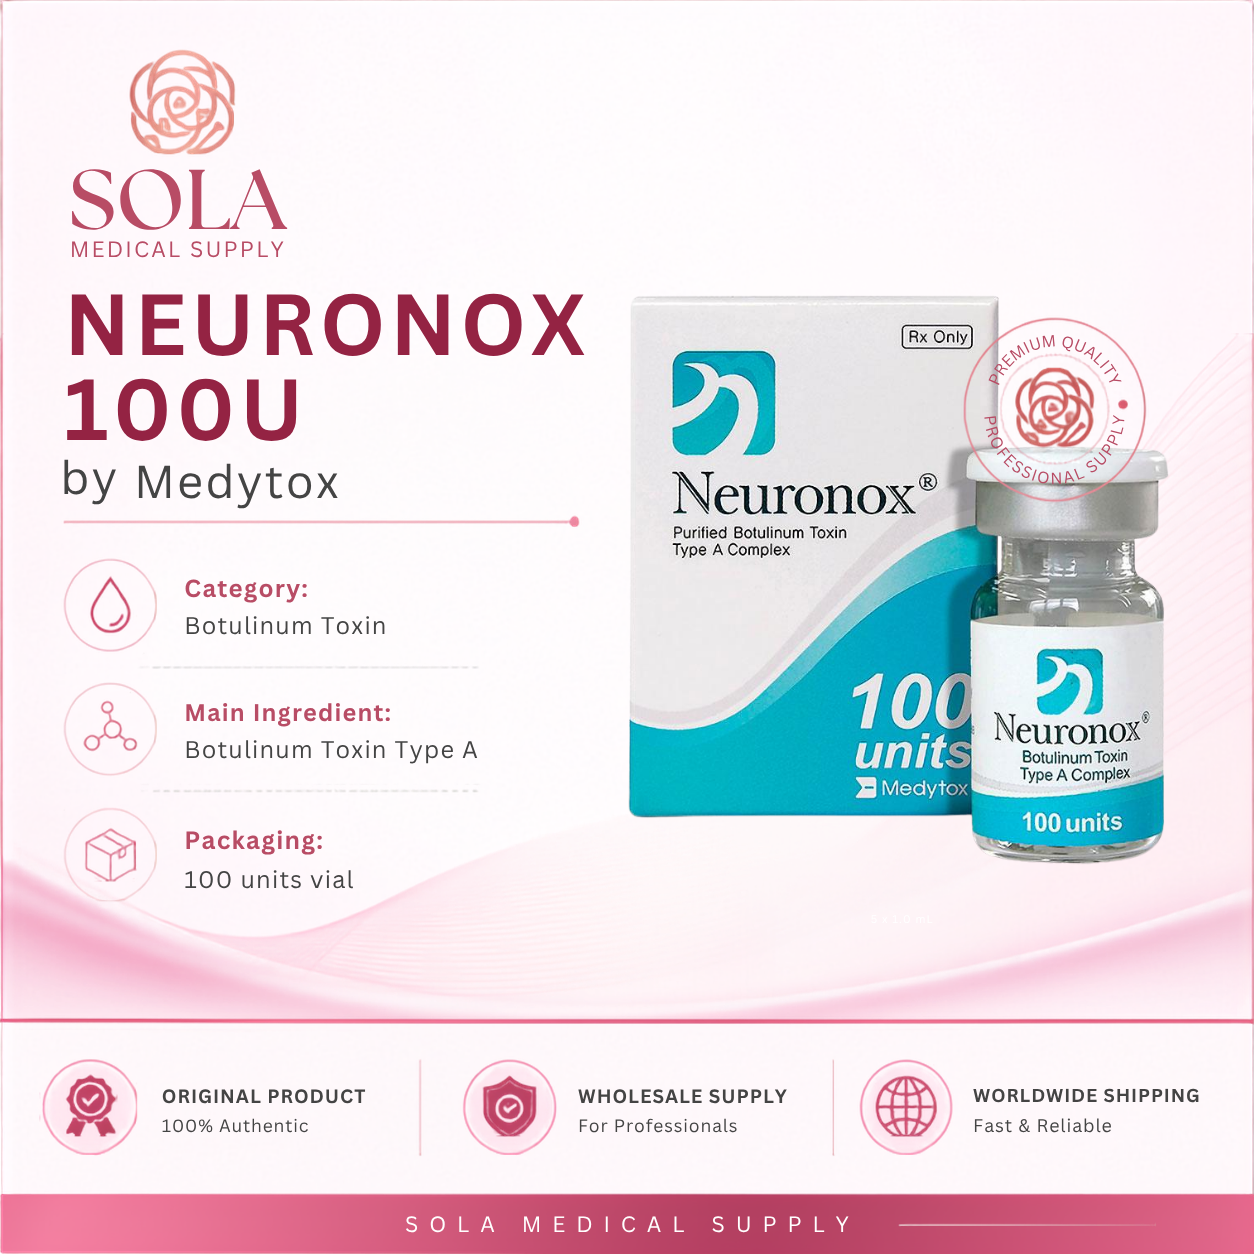
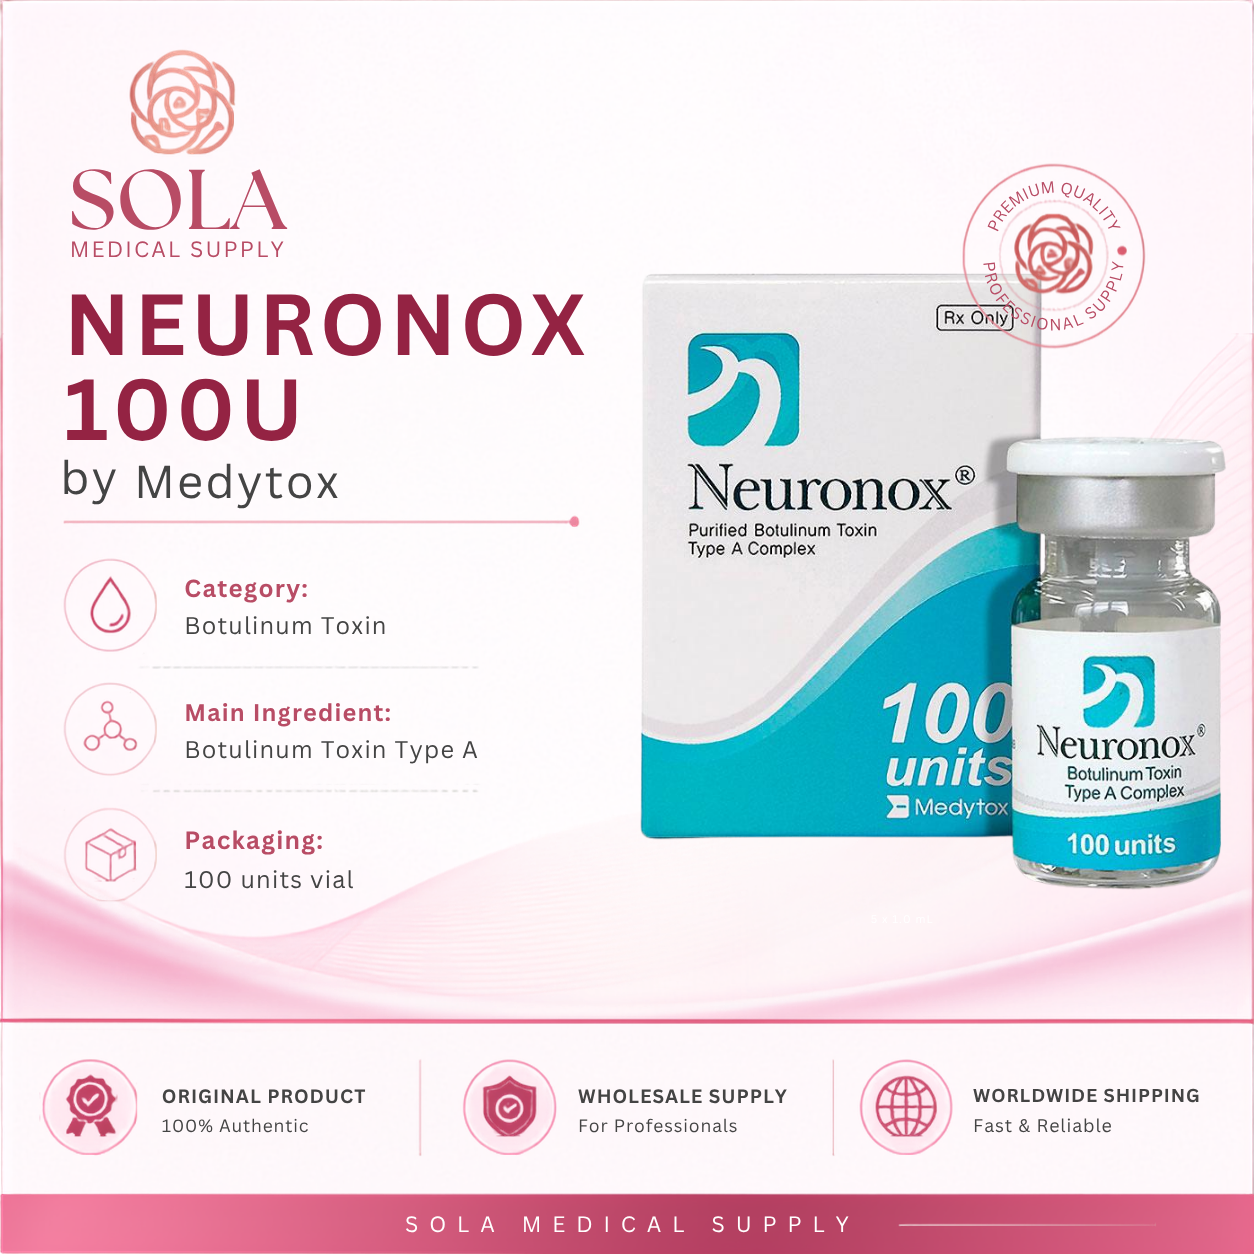
Separate home best sellers and all products

Changed region(s): [[0.4976, 0.1244, 0.9952, 0.7153]]

diff --git a/assets/data/products.js b/assets/data/products.js
@@ -1,34 +1,208 @@
 window.SOLA_PRODUCTS = [
-  { name: 'Aqualyx', category: 'Lipolysis / Body', brand: 'Aqualyx', origin: 'Korea', tag: 'Fat Dissolving', image: 'assets/images/bestSeller/aqualyx.png',featured:true },
-  { name: 'Botulax 100 Unit', category: 'Toxin', brand: 'Botulax', origin: 'Korea', tag: 'Toxin', image: 'assets/images/bestSeller/botulax100unit.png',featured:true },
-  { name: 'Botulax 200U', category: 'Toxin', brand: 'Botulax', origin: 'Korea', tag: 'Toxin', image: 'assets/images/bestSeller/botulax200u.png',featured:true },
-  { name: 'Hyaron', category: 'Skin Boosters / PN', brand: 'Hyaron', origin: 'Korea', tag: 'Skin Booster', image: 'assets/images/bestSeller/hyaron.png',featured:true },
-  { name: 'Juvederm Ultra 3', category: 'Dermal Fillers', brand: 'Juvederm', origin: 'France', tag: 'Filler', image: 'assets/images/bestSeller/juvederm3.png',featured:true },
-  { name: 'Juvederm Voluma', category: 'Dermal Fillers', brand: 'Juvederm', origin: 'France', tag: 'Filler', image: 'assets/images/bestSeller/juvedermVoluma.png',featured:true },
-  { name: 'Juvederm XC Plus', category: 'Dermal Fillers', brand: 'Juvederm', origin: 'France', tag: 'Filler', image: 'assets/images/bestSeller/juvedermXcPlus.png',featured:true },
-  { name: 'Karisma', category: 'Skin Boosters / PN', brand: 'Karisma', origin: 'Italy', tag: 'Biostimulator', image: 'assets/images/bestSeller/karisma.png',featured:true },
-  { name: 'Lemon Bottle', category: 'Lipolysis / Body', brand: 'Lemon Bottle', origin: 'Korea', tag: 'Fat Dissolving', image: 'assets/images/bestSeller/lemonBottle.png',featured:true },
-  { name: 'Luhilo', category: 'Skin Boosters / PN', brand: 'Luhilo', origin: 'Korea', tag: 'Skin Booster', image: 'assets/images/bestSeller/luhilo.png',featured:true },
-  { name: 'Meditoxin 100', category: 'Toxin', brand: 'Meditoxin', origin: 'Korea', tag: 'Toxin', image: 'assets/images/bestSeller/meditoxin100.png',featured:true },
-  { name: 'Mounjaro 2.5mg', category: 'Weight Management', brand: 'Mounjaro', origin: 'Japan', tag: 'Weight Management', image: 'assets/images/bestSeller/moujaro2.5mg.png',featured:true }, 
-  { name: 'Mounjaro 5mg', category: 'Weight Management', brand: 'Mounjaro', origin: 'Japan', tag: 'Weight Management', image: 'assets/images/bestSeller/moujaro5mg.png',featured:true },
-  { name: 'Mounjaro 7.5mg', category: 'Weight Management', brand: 'Mounjaro', origin: 'Japan', tag: 'Weight Management', image: 'assets/images/bestSeller/moujaro7.5mg.png',featured:true },
-  { name: 'Mounjaro 10mg', category: 'Weight Management', brand: 'Mounjaro', origin: 'Japan', tag: 'Weight Management', image: 'assets/images/bestSeller/moujaro10mg.png',featured:true },
-  { name: 'NCTF', category: 'Skin Boosters / PN', brand: 'NCTF', origin: 'France', tag: 'Skin Booster', image: 'assets/images/bestSeller/nctf.png',featured:true },
-  { name: 'Profhilo', category: 'Skin Boosters / PN', brand: 'Profhilo', origin: 'Italy', tag: 'Skin Booster', image: 'assets/images/bestSeller/profhilo.png',featured:true },
-  { name: 'Profhilo Structura', category: 'Skin Boosters / PN', brand: 'Profhilo', origin: 'Italy', tag: 'Skin Booster', image: 'assets/images/bestSeller/profhiloStructura.png',featured:true },
-  { name: 'Rejeunesse', category: 'Dermal Fillers', brand: 'Rejeunesse', origin: 'Korea', tag: 'Filler', image: 'assets/images/bestSeller/rejeunesse.png',featured:true },
-  { name: 'Rejuran HB', category: 'Skin Boosters / PN', brand: 'Rejuran', origin: 'Korea', tag: 'PN', image: 'assets/images/bestSeller/rejuranHB.png',featured:true },
-  { name: 'Rejuran Healer', category: 'Skin Boosters / PN', brand: 'Rejuran', origin: 'Korea', tag: 'Best Seller', image: 'assets/images/bestSeller/rejuranHealer.png',featured:true },
-  { name: 'Rejuran I', category: 'Skin Boosters / PN', brand: 'Rejuran', origin: 'Korea', tag: 'PN', image: 'assets/images/bestSeller/rejuranI.png',featured:true },
-  { name: 'Rejuran S', category: 'Skin Boosters / PN', brand: 'Rejuran', origin: 'Korea', tag: 'PN', image: 'assets/images/bestSeller/rejuranS.png',featured:true },
-  { name: 'Rentox 200', category: 'Toxin', brand: 'Rentox', origin: 'Korea', tag: 'Toxin', image: 'assets/images/bestSeller/rentox200.png',featured:true },
-  { name: 'Restylane Kysse', category: 'Dermal Fillers', brand: 'Restylane', origin: 'Sweden', tag: 'Filler', image: 'assets/images/bestSeller/restylaneKysse.png',featured:true },
-  { name: 'Restylane Defyne', category: 'Dermal Fillers', brand: 'Restylane', origin: 'Sweden', tag: 'Filler', image: 'assets/images/bestSeller/restylanedefine.png',featured:true },
-  { name: 'Sculptra', category: 'Biostimulator', brand: 'Sculptra', origin: 'France', tag: 'Collagen Stimulator', image: 'assets/images/bestSeller/Sculptra.png',featured:true },
-  { name: 'Sedy Fill', category: 'Body Filler', brand: 'Sedy Fill', origin: 'Korea', tag: 'Body Filler', image: 'assets/images/bestSeller/sedyFill.png',featured:true },
-  { name: 'Teoxane Redensity II', category: 'Dermal Fillers', brand: 'Teoxane', origin: 'Switzerland', tag: 'Filler', image: 'assets/images/bestSeller/teoxaneRedensity2.png'},
+  { name: 'Aqualyx', category: 'Lipolysis / Body', brand: 'Aqualyx', origin: 'Korea', tag: 'Fat Dissolving', image: 'assets/images/bestSeller/aqualyx.png', featured: true },
+  { name: 'Botulax 100 Unit', category: 'Toxin', brand: 'Botulax', origin: 'Korea', tag: 'Toxin', image: 'assets/images/bestSeller/botulax100unit.png', featured: true },
+  { name: 'Botulax 200U', category: 'Toxin', brand: 'Botulax', origin: 'Korea', tag: 'Toxin', image: 'assets/images/bestSeller/botulax200u.png', featured: true },
+  { name: 'Hyaron', category: 'Skin Boosters / PN', brand: 'Hyaron', origin: 'Korea', tag: 'Skin Booster', image: 'assets/images/bestSeller/hyaron.png', featured: true },
+  { name: 'Juvederm Ultra 3', category: 'Dermal Fillers', brand: 'Juvederm', origin: 'France', tag: 'Filler', image: 'assets/images/bestSeller/juvederm3.png', featured: true },
+  { name: 'Juvederm Voluma', category: 'Dermal Fillers', brand: 'Juvederm', origin: 'France', tag: 'Filler', image: 'assets/images/bestSeller/juvedermVoluma.png', featured: true },
+  { name: 'Juvederm XC Plus', category: 'Dermal Fillers', brand: 'Juvederm', origin: 'France', tag: 'Filler', image: 'assets/images/bestSeller/juvedermXcPlus.png', featured: true },
+  { name: 'Karisma', category: 'Skin Boosters / PN', brand: 'Karisma', origin: 'Italy', tag: 'Biostimulator', image: 'assets/images/bestSeller/karisma.png', featured: true },
+  { name: 'Lemon Bottle', category: 'Lipolysis / Body', brand: 'Lemon Bottle', origin: 'Korea', tag: 'Fat Dissolving', image: 'assets/images/bestSeller/lemonBottle.png', featured: true },
+  { name: 'Luhilo', category: 'Skin Boosters / PN', brand: 'Luhilo', origin: 'Korea', tag: 'Skin Booster', image: 'assets/images/bestSeller/luhilo.png', featured: true },
+  { name: 'Meditoxin 100', category: 'Toxin', brand: 'Meditoxin', origin: 'Korea', tag: 'Toxin', image: 'assets/images/bestSeller/meditoxin100.png', featured: true },
+  { name: 'Mounjaro 2.5mg', category: 'Weight Management', brand: 'Mounjaro', origin: 'Japan', tag: 'Weight Management', image: 'assets/images/bestSeller/moujaro2.5mg.png', featured: true },
+  { name: 'Mounjaro 5mg', category: 'Weight Management', brand: 'Mounjaro', origin: 'Japan', tag: 'Weight Management', image: 'assets/images/bestSeller/moujaro5mg.png', featured: true },
+  { name: 'Mounjaro 7.5mg', category: 'Weight Management', brand: 'Mounjaro', origin: 'Japan', tag: 'Weight Management', image: 'assets/images/bestSeller/moujaro7.5mg.png', featured: true },
+  { name: 'Mounjaro 10mg', category: 'Weight Management', brand: 'Mounjaro', origin: 'Japan', tag: 'Weight Management', image: 'assets/images/bestSeller/moujaro10mg.png', featured: true },
+  { name: 'NCTF', category: 'Skin Boosters / PN', brand: 'NCTF', origin: 'France', tag: 'Skin Booster', image: 'assets/images/bestSeller/nctf.png', featured: true },
+  { name: 'Profhilo', category: 'Skin Boosters / PN', brand: 'Profhilo', origin: 'Italy', tag: 'Skin Booster', image: 'assets/images/bestSeller/profhilo.png', featured: true },
+  { name: 'Profhilo Structura', category: 'Skin Boosters / PN', brand: 'Profhilo', origin: 'Italy', tag: 'Skin Booster', image: 'assets/images/bestSeller/profhiloStructura.png', featured: true },
+  { name: 'Rejeunesse', category: 'Dermal Fillers', brand: 'Rejeunesse', origin: 'Korea', tag: 'Filler', image: 'assets/images/bestSeller/rejeunesse.png', featured: true },
+  { name: 'Rejuran HB', category: 'Skin Boosters / PN', brand: 'Rejuran', origin: 'Korea', tag: 'PN', image: 'assets/images/bestSeller/rejuranHB.png', featured: true },
+  { name: 'Rejuran Healer', category: 'Skin Boosters / PN', brand: 'Rejuran', origin: 'Korea', tag: 'Best Seller', image: 'assets/images/bestSeller/rejuranHealer.png', featured: true },
+  { name: 'Rejuran I', category: 'Skin Boosters / PN', brand: 'Rejuran', origin: 'Korea', tag: 'PN', image: 'assets/images/bestSeller/rejuranI.png', featured: true },
+  { name: 'Rejuran S', category: 'Skin Boosters / PN', brand: 'Rejuran', origin: 'Korea', tag: 'PN', image: 'assets/images/bestSeller/rejuranS.png', featured: true },
+  { name: 'Rentox 200', category: 'Toxin', brand: 'Rentox', origin: 'Korea', tag: 'Toxin', image: 'assets/images/bestSeller/rentox200.png', featured: true },
+  { name: 'Restylane Kysse', category: 'Dermal Fillers', brand: 'Restylane', origin: 'Sweden', tag: 'Filler', image: 'assets/images/bestSeller/restylaneKysse.png', featured: true },
+  { name: 'Restylane Defyne', category: 'Dermal Fillers', brand: 'Restylane', origin: 'Sweden', tag: 'Filler', image: 'assets/images/bestSeller/restylanedefine.png', featured: true },
+  { name: 'Sculptra', category: 'Biostimulator', brand: 'Sculptra', origin: 'France', tag: 'Collagen Stimulator', image: 'assets/images/bestSeller/Sculptra.png', featured: true },
+  { name: 'Sedy Fill', category: 'Body Filler', brand: 'Sedy Fill', origin: 'Korea', tag: 'Body Filler', image: 'assets/images/bestSeller/sedyFill.png', featured: true },
+  { name: 'Teoxane Redensity II', category: 'Dermal Fillers', brand: 'Teoxane', origin: 'Switzerland', tag: 'Filler', image: 'assets/images/bestSeller/teoxaneRedensity2.png' },
 
-  
+  { name: '32g Meso Needle', category: 'Meso / Needles', brand: 'Meso Needle', origin: '', tag: 'Meso Needle', image: 'assets/images/products/32gMesoNeedle.png' },
+  { name: '34G Meso Needle', category: 'Meso / Needles', brand: 'Meso Needle', origin: '', tag: 'Meso Needle', image: 'assets/images/products/34GMesoNeedle.png' },
+  { name: 'Ammi Eyes', category: 'Skin Boosters / PN', brand: 'Ammi', origin: '', tag: 'Eye Booster', image: 'assets/images/products/ammiEyes.png' },
+  { name: 'Arista', category: 'Skin Boosters / PN', brand: 'Arista', origin: '', tag: 'Skin Booster', image: 'assets/images/products/arista.png' },
+  { name: 'B.Braun Omnican 1ml', category: 'Injection Supplies', brand: 'B.Braun', origin: 'Germany', tag: 'Supplies', image: 'assets/images/products/BBraun.png' },
+  { name: 'Bienox 100U', category: 'Toxin', brand: 'Bienox', origin: 'Korea', tag: 'Toxin', image: 'assets/images/products/bienox100U.png' },
+  { name: 'BM Hyrunidase', category: 'Dissolving / Hyaluronidase', brand: 'BM', origin: 'Korea', tag: 'Hyaluronidase', image: 'assets/images/products/bmHyrunidase.png' },
+  { name: 'Celosome VIP', category: 'Dermal Fillers', brand: 'Celosome', origin: 'Korea', tag: 'Filler', image: 'assets/images/products/celosomeVip.png' },
+  { name: 'Ceres', category: 'Skin Boosters / PN', brand: 'Ceres', origin: '', tag: 'Skin Booster', image: 'assets/images/products/ceres.png' },
+  { name: 'Coretox 100U', category: 'Toxin', brand: 'Coretox', origin: 'Korea', tag: 'Toxin', image: 'assets/images/products/coretox100u.png' },
+  { name: 'Chaeum', category: 'Dermal Fillers', brand: 'Chaeum', origin: 'Korea', tag: 'Filler', image: 'assets/images/products/chaeum.png' },
+  { name: 'Chaumcaine', category: 'Numbing Cream', brand: 'Chaumcaine', origin: 'Korea', tag: 'Numbing Cream', image: 'assets/images/products/chaumcain.png' },
+  { name: 'Dehantox', category: 'Toxin', brand: 'Dehantox', origin: 'Korea', tag: 'Toxin', image: 'assets/images/products/dehantox.png' },
+  { name: 'Eve Eyes', category: 'Skin Boosters / PN', brand: 'Eve Eyes', origin: '', tag: 'Eye Booster', image: 'assets/images/products/eveEyes.png' },
 
+  { name: 'Evetox', category: 'Toxin', brand: 'Evetox', origin: 'Korea', tag: 'Toxin', image: 'assets/images/products/evetox.png' },
+  { name: 'Extox 100U', category: 'Toxin', brand: 'Extox', origin: 'Korea', tag: 'Toxin', image: 'assets/images/products/extox100u.png' },
+  { name: 'Hairna', category: 'Hair / Meso', brand: 'Hairna', origin: '', tag: 'Hair Booster', image: 'assets/images/products/hairna.png' },
+  { name: 'Huons Water Numb', category: 'Numbing / Anesthetic', brand: 'Huons', origin: 'Korea', tag: 'Numbing', image: 'assets/images/products/huonsWaterNumb.png' },
+  { name: 'Hyalaze', category: 'Dissolving / Hyaluronidase', brand: 'Hyalaze', origin: 'Korea', tag: 'Hyaluronidase', image: 'assets/images/products/hyazale.png' },
+  { name: 'Jalupro Young Eye', category: 'Skin Boosters / PN', brand: 'Jalupro', origin: 'Italy', tag: 'Eye Booster', image: 'assets/images/products/jalupro.png' },
+  { name: 'J-Cain Numbing Cream 10.56%', category: 'Numbing Cream', brand: 'J-Cain', origin: 'Korea', tag: 'Numbing Cream', image: 'assets/images/products/jCainNumbingCream10.56.png' },
+  { name: 'J-Cain Numbing Cream 15.6%', category: 'Numbing Cream', brand: 'J-Cain', origin: 'Korea', tag: 'Numbing Cream', image: 'assets/images/products/jCainNumbingCream15.6.png' },
+  { name: 'J-Cain Numbing Cream 29.9%', category: 'Numbing Cream', brand: 'J-Cain', origin: 'Korea', tag: 'Numbing Cream', image: 'assets/images/products/jCainNumbingCream29.9.png' },
+  { name: 'J-Cain Numbing Cream 59.9%', category: 'Numbing Cream', brand: 'J-Cain', origin: 'Korea', tag: 'Numbing Cream', image: 'assets/images/products/jCainNumbingCream59.9.png' },
+  { name: 'Jade Cain Cream 10,56%', category: 'Skin Boosters / PN', brand: 'Jdibio', origin: 'Korea', tag: 'Skin Booster', image: 'assets/images/products/jdibio.png' },
+  { name: 'Juvederm Skinvive', category: 'Skin Boosters / PN', brand: 'Juvederm', origin: 'France', tag: 'Skin Booster', image: 'assets/images/products/juvedermSkinvive.png' },
+  { name: 'Juvederm Volbella', category: 'Dermal Fillers', brand: 'Juvederm', origin: 'France', tag: 'Filler', image: 'assets/images/products/juvedermVolbella.png' },
+  { name: 'Juvederm Volift', category: 'Dermal Fillers', brand: 'Juvederm', origin: 'France', tag: 'Filler', image: 'assets/images/products/juvedermVolift.png' },
+
+  { name: 'Juvederm Volux', category: 'Dermal Fillers', brand: 'Juvederm', origin: 'France', tag: 'Filler', image: 'assets/images/products/juvedermVolux.png' },
+  { name: 'Juvederm XC', category: 'Dermal Fillers', brand: 'Juvederm', origin: 'France', tag: 'Filler', image: 'assets/images/products/juvedermXC.png' },
+  { name: 'Juvelook', category: 'Skin Boosters / PN', brand: 'Juvelook', origin: 'Korea', tag: 'Skin Booster', image: 'assets/images/products/juvelook.png' },
+  { name: 'Laennec', category: 'Whitening IV / Wellness', brand: 'Laennec', origin: 'Japan', tag: 'Placenta', image: 'assets/images/products/leannec.png' },
+  { name: 'Linospan', category: 'Dental / Anesthetic', brand: 'Septodont', origin: '', tag: 'Anesthetic', image: 'assets/images/products/linospan.png' },
+  { name: 'Liporase', category: 'Dissolving / Hyaluronidase', brand: 'Liporase', origin: 'Korea', tag: 'Hyaluronidase', image: 'assets/images/products/liporase.png' },
+  { name: 'Liztox 100', category: 'Toxin', brand: 'Liztox', origin: 'Korea', tag: 'Toxin', image: 'assets/images/products/liztox100.png' },
+  { name: 'Lumi Eyes', category: 'Skin Boosters / PN', brand: 'Lumi Eyes', origin: '', tag: 'Eye Booster', image: 'assets/images/products/lumieyes.png' },
+  { name: 'Luna Eyes', category: 'Skin Boosters / PN', brand: 'Luna Eyes', origin: '', tag: 'Eye Booster', image: 'assets/images/products/lunaeyes.png' },
+  { name: 'Malinda', category: 'Skin Boosters / PN', brand: 'Malinda', origin: '', tag: 'Skin Booster', image: 'assets/images/products/malinda.png' },
+  { name: 'Medicain 2%', category: 'Numbing / Anesthetic', brand: 'Medicain', origin: '', tag: 'Anesthetic', image: 'assets/images/products/medicain2.png' },
+  { name: 'Melsmon', category: 'Whitening IV / Wellness', brand: 'Melsmon', origin: 'Japan', tag: 'Placenta', image: 'assets/images/products/melsmon.png' },
+  { name: 'Meso 30g Sungshim', category: 'Meso / Needles', brand: 'Sungshim', origin: 'Korea', tag: 'Meso Needle', image: 'assets/images/products/meso30gSungshim.png' },
+  { name: 'Mi-Cain Pro', category: 'Numbing Cream', brand: 'Mi-Cain', origin: 'Korea', tag: 'Numbing Cream', image: 'assets/images/products/miCainpro.png' },
+
+  { name: 'Neuronox 100U', category: 'Toxin', brand: 'Neuronox', origin: 'Korea', tag: 'Toxin', image: 'assets/images/products/Neuronox100U.png' },
+  { name: 'Olidia', category: 'Biostimulator', brand: 'Olidia', origin: 'Korea', tag: 'Collagen Stimulator', image: 'assets/images/products/olivia.png' },
+  { name: 'Onetox 100', category: 'Toxin', brand: 'Onetox', origin: 'Korea', tag: 'Toxin', image: 'assets/images/products/onetox100.png' },
+  { name: 'Onetox 200', category: 'Toxin', brand: 'Onetox', origin: 'Korea', tag: 'Toxin', image: 'assets/images/products/ontox200.png' },
+  { name: 'Radiesse', category: 'Biostimulator', brand: 'Radiesse', origin: 'Germany', tag: 'Biostimulator', image: 'assets/images/products/radiesse.png' },
+  { name: 'Restylane Lyft', category: 'Dermal Fillers', brand: 'Restylane', origin: 'Sweden', tag: 'Filler', image: 'assets/images/products/restylaneLyft.png' },
+  { name: 'Richesse Eyes', category: 'Skin Boosters / PN', brand: 'Richesse', origin: '', tag: 'Eye Booster', image: 'assets/images/products/richeseeyes.png' },
+  { name: 'Roya', category: 'Skin Boosters / PN', brand: 'Roya', origin: '', tag: 'Skin Booster', image: 'assets/images/products/roya.png' },
+  { name: 'RRS HA Eyes', category: 'Skin Boosters / PN', brand: 'RRS', origin: '', tag: 'Eye Booster', image: 'assets/images/products/rrshaeyes.png' },
+  { name: 'Rubytoxin 100U', category: 'Toxin', brand: 'Rubytoxin', origin: 'Korea', tag: 'Toxin', image: 'assets/images/products/rubytoxin100u.png' },
+  { name: 'Sculptra 5ml', category: 'Biostimulator', brand: 'Sculptra', origin: 'France', tag: 'Collagen Stimulator', image: 'assets/images/products/Sculptra5ml.png' },
+  { name: 'Samsung Pharm Whitening', category: 'Whitening IV / Wellness', brand: 'Samsung Pharm', origin: 'Korea', tag: 'Whitening', image: 'assets/images/products/sumsungPharmWhitening.png' },
+  { name: 'Teoxane', category: 'Dermal Fillers', brand: 'Teoxane', origin: 'Switzerland', tag: 'Filler', image: 'assets/images/products/teoxane.png' },
+  { name: 'Toxta 100', category: 'Toxin', brand: 'Toxta', origin: 'Korea', tag: 'Toxin', image: 'assets/images/products/toxta100.png' },
+
+  { name: 'Triamcinolo', category: 'Injection / Medicine', brand: 'Triamcinolo', origin: '', tag: 'Injection', image: 'assets/images/products/triamcinolo.png' },
+  { name: 'White Fill Pro', category: 'Dermal Fillers', brand: 'White Fill Pro', origin: 'Korea', tag: 'Filler', image: 'assets/images/products/whiteFillPro.png' },
+  { name: 'Ammi', category: 'Skin Boosters / PN', brand: 'Ammi', origin: '', tag: 'Skin Booster', image: 'assets/images/products/ammi.png' },
+
+  { name: 'Aqualyx', category: 'Lipolysis / Body', brand: 'Aqualyx', origin: '', tag: 'Fat Dissolving', image: 'assets/images/products/aqualyx.png' },
+  { name: 'Aqua PN', category: 'Skin Boosters / PN', brand: 'Aqua PN', origin: 'Korea', tag: 'PN', image: 'assets/images/products/aquapn.png' },
+  { name: 'Asce', category: 'Exosome / Meso', brand: 'ASCE', origin: 'Korea', tag: 'Exosome', image: 'assets/images/products/Asce.png' },
+  { name: 'Baccarat Body', category: 'Body Filler', brand: 'Baccarat', origin: 'Korea', tag: 'Body Filler', image: 'assets/images/product/BaccaratBody.png' },
+  { name: 'Botulax 100', category: 'Toxin', brand: 'Botulax', origin: 'Korea', tag: 'Toxin', image: 'assets/images/products/botulax100.png' },
+  { name: 'Dermalax', category: 'Dermal Fillers', brand: 'Dermalax', origin: 'Korea', tag: 'Filler', image: 'assets/images/products/dermalax.png' },
+  { name: 'Dr Lacir', category: 'Skin Boosters / PN', brand: 'Dr Lacir', origin: 'Korea', tag: 'Skin Booster', image: 'assets/images/products/Drlacir.png' },
+  { name: 'Evehilo', category: 'Skin Boosters / PN', brand: 'Evehilo', origin: 'Korea', tag: 'Skin Booster', image: 'assets/images/products/evehilo.png' },
+  { name: 'Exocode', category: 'Exosome / Meso', brand: 'Exocode', origin: 'Korea', tag: 'Exosome', image: 'assets/images/products/excode.png' },
+  { name: 'Exoten', category: 'Exosome / Meso', brand: 'Exoten', origin: 'Korea', tag: 'Exosome', image: 'assets/images/products/exoten.png' },
+  { name: 'France Body', category: 'Body Filler', brand: 'France Body', origin: '', tag: 'Body Filler', image: 'assets/images/products/franceBody.png' },
+
+  { name: 'Gana V Line', category: 'Lipolysis / Body', brand: 'Gana', origin: 'Korea', tag: 'V-Line', image: 'assets/images/products/ganaVline.png' },
+  { name: 'Gouri', category: 'Biostimulator', brand: 'Gouri', origin: 'Korea', tag: 'Biostimulator', image: 'assets/images/products/gouri.png' },
+  { name: 'GTM 3%', category: 'Exosome / Meso', brand: 'GTM', origin: 'Korea', tag: 'Meso', image: 'assets/images/products/gtm3.png' },
+  { name: 'GTM 8%', category: 'Exosome / Meso', brand: 'GTM', origin: 'Korea', tag: 'Meso', image: 'assets/images/products/gtm8.png' },
+  { name: 'Helios Body', category: 'Body Filler', brand: 'Helios', origin: 'Korea', tag: 'Body Filler', image: 'assets/images/products/heliosBody.png' },
+  { name: 'Helios VIP', category: 'Body Filler', brand: 'Helios', origin: 'Korea', tag: 'Body Filler', image: 'assets/images/products/heliosVip.png' },
+  { name: 'Hyaron', category: 'Skin Boosters / PN', brand: 'Hyaron', origin: 'Korea', tag: 'Skin Booster', image: 'assets/images/products/hyaron.png' },
+  { name: 'Innotox 100', category: 'Toxin', brand: 'Innotox', origin: 'Korea', tag: 'Toxin', image: 'assets/images/products/innotox100.png' },
+  { name: 'Innotox 50', category: 'Toxin', brand: 'Innotox', origin: 'Korea', tag: 'Toxin', image: 'assets/images/products/inntox50.png' },
+  { name: 'Jariot Body', category: 'Body Filler', brand: 'Jariot', origin: 'Korea', tag: 'Body Filler', image: 'assets/images/products/jariotBody.png' },
+  { name: 'Jariot VIP', category: 'Body Filler', brand: 'Jariot', origin: 'Korea', tag: 'Body Filler', image: 'assets/images/products/jariotVip.png' },
+  { name: 'Kabelline', category: 'Lipolysis / Body', brand: 'Kabelline', origin: 'Korea', tag: 'Fat Dissolving', image: 'assets/images/products/kabelline.png' },
+
+  { name: 'Karisma', category: 'Skin Boosters / PN', brand: 'Karisma', origin: 'Italy', tag: 'Biostimulator', image: 'assets/images/products/karisma.png' },
+  { name: 'Kiara Reju', category: 'Skin Boosters / PN', brand: 'Kiara Reju', origin: 'Korea', tag: 'Skin Booster', image: 'assets/images/products/kiaraReju.png' },
+  { name: 'Lemon Bottle', category: 'Lipolysis / Body', brand: 'Lemon Bottle', origin: 'Korea', tag: 'Fat Dissolving', image: 'assets/images/products/lemonBottle.png' },
+  { name: 'Lipolab', category: 'Lipolysis / Body', brand: 'Lipolab', origin: 'Korea', tag: 'Fat Dissolving', image: 'assets/images/products/lipolab.png' },
+  { name: 'LRI Pro', category: 'Lipolysis / Body', brand: 'LRI', origin: 'Korea', tag: 'V-Line', image: 'assets/images/products/lriPro.png' },
+  { name: 'LRI V Line', category: 'Lipolysis / Body', brand: 'LRI', origin: 'Korea', tag: 'V-Line', image: 'assets/images/products/lriVline.png' },
+  { name: 'Luhilo', category: 'Skin Boosters / PN', brand: 'Luhilo', origin: 'Korea', tag: 'Skin Booster', image: 'assets/images/products/luhilo.png' },
+  { name: 'Meditoxin 100', category: 'Toxin', brand: 'Meditoxin', origin: 'Korea', tag: 'Toxin', image: 'assets/images/products/meditoxin100.png' },
+  { name: 'Meditoxin 200', category: 'Toxin', brand: 'Meditoxin', origin: 'Korea', tag: 'Toxin', image: 'assets/images/products/meditoxin200.png' },
+  { name: 'Meso Jarrior', category: 'Exosome / Meso', brand: 'Jarrior', origin: 'Korea', tag: 'Meso', image: 'assets/images/products/mesoJarrior.png' },
+  { name: 'Maxxyfill Body', category: 'Body Filler', brand: 'Maxxyfill', origin: 'Korea', tag: 'Body Filler', image: 'assets/images/products/mexxyFillBosy.png' },
+  { name: 'Muscle Inhibitors', category: 'Lipolysis / Body', brand: 'Muscle Inhibitors', origin: 'Korea', tag: 'Body Contouring', image: 'assets/images/products/muscleInhibitors.png' },
+
+  { name: 'Nabota 100', category: 'Toxin', brand: 'Nabota', origin: 'Korea', tag: 'Toxin', image: 'assets/images/products/nabota100.png' },
+  { name: 'Nabota 200', category: 'Toxin', brand: 'Nabota', origin: 'Korea', tag: 'Toxin', image: 'assets/images/products/nabota200.png' },
+  { name: 'NAD+', category: 'Whitening IV / Wellness', brand: 'NAD+', origin: '', tag: 'Wellness', image: 'assets/images/products/nad.png' },
+  { name: 'Neuramis', category: 'Dermal Fillers', brand: 'Neuramis', origin: 'Korea', tag: 'Filler', image: 'assets/images/products/neuramis.png' },
+  { name: 'Oxyx', category: 'Skin Boosters / PN', brand: 'Oxyx', origin: '', tag: 'Skin Booster', image: 'assets/images/products/oxyx.png' },
+  { name: 'Pink Fill Body', category: 'Body Filler', brand: 'Pink Fill', origin: 'Korea', tag: 'Body Filler', image: 'assets/images/products/pinkFillBody.png' },
+  { name: 'Pink Glow', category: 'Skin Boosters / PN', brand: 'Pink Glow', origin: 'Korea', tag: 'Skin Booster', image: 'assets/images/products/pinkglow.png' },
+  { name: 'Placentex', category: 'Skin Boosters / PN', brand: 'Placentex', origin: '', tag: 'PDRN', image: 'assets/images/products/placentex.png' },
+  { name: 'Rejeunesse', category: 'Dermal Fillers', brand: 'Rejeunesse', origin: 'Korea', tag: 'Filler', image: 'assets/images/products/rejeunesse.png' },
+  { name: 'Rentox 100', category: 'Toxin', brand: 'Rentox', origin: 'Korea', tag: 'Toxin', image: 'assets/images/products/rentox100.png' },
+  { name: 'Rentox 200', category: 'Toxin', brand: 'Rentox', origin: 'Korea', tag: 'Toxin', image: 'assets/images/products/Rentox200.png' },
+  { name: 'Restylane Eyelight', category: 'Dermal Fillers', brand: 'Restylane', origin: 'Sweden', tag: 'Filler', image: 'assets/images/products/RestylaneEyelight.png' },
+
+  { name: 'Restylane Kysse', category: 'Dermal Fillers', brand: 'Restylane', origin: 'Sweden', tag: 'Filler', image: 'assets/images/products/restylaneKysse.png' },
+  { name: 'Restylane Skinbooster', category: 'Skin Boosters / PN', brand: 'Restylane', origin: 'Sweden', tag: 'Skin Booster', image: 'assets/images/products/restylaneSkinbooster.png' },
+  { name: 'Revolax', category: 'Dermal Fillers', brand: 'Revolax', origin: 'Korea', tag: 'Filler', image: 'assets/images/products/revolax.png' },
+  { name: 'Ruby Luxury', category: 'Whitening IV / Wellness', brand: 'Ruby Luxury', origin: '', tag: 'Wellness', image: 'assets/images/products/rubyluxury.png' },
+  { name: 'Sedy Fill', category: 'Body Filler', brand: 'Sedy Fill', origin: 'Korea', tag: 'Body Filler', image: 'assets/images/products/sedyFill.png' },
+  { name: 'Semaglutide 10mg', category: 'Weight Management', brand: 'Semaglutide', origin: '', tag: 'Weight Management', image: 'assets/images/products/semaglutide.png' },
+  { name: 'Slim Queen', category: 'Lipolysis / Body', brand: 'Slim Queen', origin: 'Korea', tag: 'Body Contouring', image: 'assets/images/products/slimqueen.png' },
+  { name: 'Tirzepatide 30mg', category: 'Weight Management', brand: 'Tirzepatide', origin: '', tag: 'Weight Management', image: 'assets/images/products/tirzepatide30Mg.png' },
+  { name: 'Vitarium', category: 'Whitening IV / Wellness', brand: 'Vitarium', origin: '', tag: 'Wellness', image: 'assets/images/products/vitarium.png' },
+
+  {name:'Admedic', category:'Injection Supplies', brand:'Admedic', origin:'', tag:'Supplies', image:'assets/images/products/admedic.png'},
+{name:'Allergan 50U', category:'Toxin', brand:'Allergan', origin:'USA', tag:'Toxin', image:'assets/images/products/allergan50u.png'},
+{name:'Allergan 100U', category:'Toxin', brand:'Allergan', origin:'USA', tag:'Toxin', image:'assets/images/products/allergan100u.png'},
+{name:'BAC Water', category:'Injection Supplies', brand:'BAC Water', origin:'', tag:'Supplies', image:'assets/images/products/bacwater.png'},
+{name:'Blacktox', category:'Toxin', brand:'Blacktox', origin:'Korea', tag:'Toxin', image:'assets/images/products/blacktox.png'},
+{name:'Botulax 300U', category:'Toxin', brand:'Botulax', origin:'Korea', tag:'Toxin', image:'assets/images/products/botulax300U.png'},
+{name:'Cindella Set', category:'Whitening IV / Wellness', brand:'Cindella', origin:'Korea', tag:'Whitening', image:'assets/images/products/cindellaSet.png'},
+{name:'Daxxify', category:'Toxin', brand:'Daxxify', origin:'USA', tag:'Toxin', image:'assets/images/products/daxxify.png'},
+{name:'Dermacan', category:'Dermal Fillers', brand:'Dermacan', origin:'Korea', tag:'Filler', image:'assets/images/products/dermacan.png'},
+{name:'Doris Filler', category:'Dermal Fillers', brand:'Doris', origin:'Korea', tag:'Filler', image:'assets/images/products/doris.png'},
+{name:'Dysport Chai To', category:'Toxin', brand:'Dysport', origin:'UK', tag:'Toxin', image:'assets/images/products/Dysport.png'},
+{name:'Elasty', category:'Dermal Fillers', brand:'Elasty', origin:'Korea', tag:'Filler', image:'assets/images/products/elasty.png'},
+
+{name:'EPTQ', category:'Dermal Fillers', brand:'EPTQ', origin:'Korea', tag:'Filler', image:'assets/images/products/eptq.png'},
+{name:'Fabi', category:'Skin Boosters / PN', brand:'Fabi', origin:'', tag:'Skin Booster', image:'assets/images/products/fabi.png'},
+{name:'Glutax 5GS Micro', category:'Whitening IV / Wellness', brand:'Glutax', origin:'', tag:'Whitening', image:'assets/images/products/glutax5gsmicro.png'},
+{name:'Glutax 10000000', category:'Whitening IV / Wellness', brand:'Glutax', origin:'', tag:'Whitening', image:'assets/images/products/glutax10m.png'},
+{name:'Glutax 22000000', category:'Whitening IV / Wellness', brand:'Glutax', origin:'', tag:'Whitening', image:'assets/images/products/glutax22m.png'},
+{name:'Glutax 35000000', category:'Whitening IV / Wellness', brand:'Glutax', origin:'', tag:'Whitening', image:'assets/images/products/glutax35m.png'},
+{name:'Gluthione 1200mg', category:'Whitening IV / Wellness', brand:'Gluthione', origin:'', tag:'Whitening', image:'assets/images/products/gluthione.png'},
+{name:'Hutox 100U', category:'Toxin', brand:'Hutox', origin:'Korea', tag:'Toxin', image:'assets/images/products/hutox100U.png'},
+{name:'Hyadew', category:'Dermal Fillers', brand:'Hyadew', origin:'Korea', tag:'Filler', image:'assets/images/products/hyadew.png'},
+{name:'Jalupro', category:'Skin Boosters / PN', brand:'Jalupro', origin:'Italy', tag:'Skin Booster', image:'assets/images/products/jalupro.png'},
+{name:'Jalupro Classic', category:'Skin Boosters / PN', brand:'Jalupro', origin:'Italy', tag:'Skin Booster', image:'assets/images/products/jaluproClassic.png'},
+
+{name:'Jalupro HMW', category:'Skin Boosters / PN', brand:'Jalupro', origin:'Italy', tag:'Skin Booster', image:'assets/images/products/jaluproHMW.png'},
+{name:'Jalupro Super Hydro', category:'Skin Boosters / PN', brand:'Jalupro', origin:'Italy', tag:'Skin Booster', image:'assets/images/products/jaluproSuper.png'},
+{name:'Kaimax 100', category:'Toxin', brand:'Kaimax', origin:'Korea', tag:'Toxin', image:'assets/images/products/kaimax.png'},
+{name:'Kaimax 200U', category:'Toxin', brand:'Kaimax', origin:'Korea', tag:'Toxin', image:'assets/images/products/kaimax200u.png'},
+{name:'Kingtox', category:'Toxin', brand:'Kingtox', origin:'Korea', tag:'Toxin', image:'assets/images/products/kingTox.png'},
+{name:'Laroscorbine Diamond E-UF', category:'Whitening IV / Wellness', brand:'Laroscorbine', origin:'', tag:'Whitening', image:'assets/images/products/laros.png'},
+{name:'Lips', category:'Dermal Fillers', brand:'Lips', origin:'', tag:'Filler', image:'assets/images/products/lips.png'},
+{name:'Lucchini', category:'Whitening IV / Wellness', brand:'Lucchini', origin:'', tag:'Wellness', image:'assets/images/products/lucchini.png'},
+{name:'Luxer', category:'Skin Boosters / PN', brand:'Luxer', origin:'Korea', tag:'Skin Booster', image:'assets/images/products/luxer.png'},
+{name:'Milanie', category:'Dermal Fillers', brand:'Milanie', origin:'', tag:'Filler', image:'assets/images/products/milanie.png'},
+{name:'Mounjaro 12.5mg', category:'Weight Management', brand:'Mounjaro', origin:'Japan', tag:'Weight Management', image:'assets/images/products/moujaro12.5mg.png'},
+{name:'Mounjaro 15mg', category:'Weight Management', brand:'Mounjaro', origin:'Japan', tag:'Weight Management', image:'assets/images/products/mounjaro15mg.png'},
+
+{name:'Neuronox 100U', category:'Toxin', brand:'Neuronox', origin:'Korea', tag:'Toxin', image:'assets/images/products/neuronox100u.png'},
+{name:'Ozempic', category:'Weight Management', brand:'Ozempic', origin:'Japan', tag:'Weight Management', image:'assets/images/products/ozempic.png'},
+{name:'Placenta', category:'Whitening IV / Wellness', brand:'Placenta', origin:'Japan', tag:'Placenta', image:'assets/images/products/placenta.png'},
+{name:'Priere', category:'Skin Boosters / PN', brand:'Priere', origin:'', tag:'Skin Booster', image:'assets/images/products/priere.png'},
+{name:'Sardenya', category:'Dermal Fillers', brand:'Sardenya', origin:'Korea', tag:'Filler', image:'assets/images/products/Sardenya.png'},
+{name:'Sculptra', category:'Biostimulator', brand:'Sculptra', origin:'France', tag:'Collagen Stimulator', image:'assets/images/products/sculptra.png'},
+{name:'Senorita', category:'Skin Boosters / PN', brand:'Senorita', origin:'', tag:'Skin Booster', image:'assets/images/products/senorita.png'},
+{name:'TMIE VIP', category:'Skin Boosters / PN', brand:'TMIE', origin:'Korea', tag:'Skin Booster', image:'assets/images/products/tmieVip.png'},
+{name:'Ultrafill', category:'Dermal Fillers', brand:'Ultrafill', origin:'Korea', tag:'Filler', image:'assets/images/products/ultrafill.png'},
+{name:'V Line Sol', category:'Lipolysis / Body', brand:'V Line Sol', origin:'Korea', tag:'V-Line', image:'assets/images/products/vlineSol.png'},
+{name:'Wondertox 200U', category:'Toxin', brand:'Wondertox', origin:'Korea', tag:'Toxin', image:'assets/images/products/woundertox200u.png'},
+{name:'Wondertox 100U', category:'Toxin', brand:'Wondertox', origin:'Korea', tag:'Toxin', image:'assets/images/products/wuondertox100u.png'},
+{name:'Xeomin', category:'Toxin', brand:'Xeomin', origin:'Germany', tag:'Toxin', image:'assets/images/products/xeomin.png'},
 ];

diff --git a/products.html b/products.html
@@ -40,8 +40,8 @@
     <section>
         <div class="wrap">
             <div class="product-tools"><input class="input" data-search
-                    placeholder="Search product, brand or category..."><select class="select"
-                    data-category-filter></select><select class="select" data-brand-filter></select></div>
+                    placeholder="Search product, brand or category..."><select value="Aqll" class="select"
+                    data-category-filter></select><select class="select" value="All" data-brand-filter></select></div>
             <div class="products-grid" data-products-grid data-mode="all"></div>
         </div>
     </section>